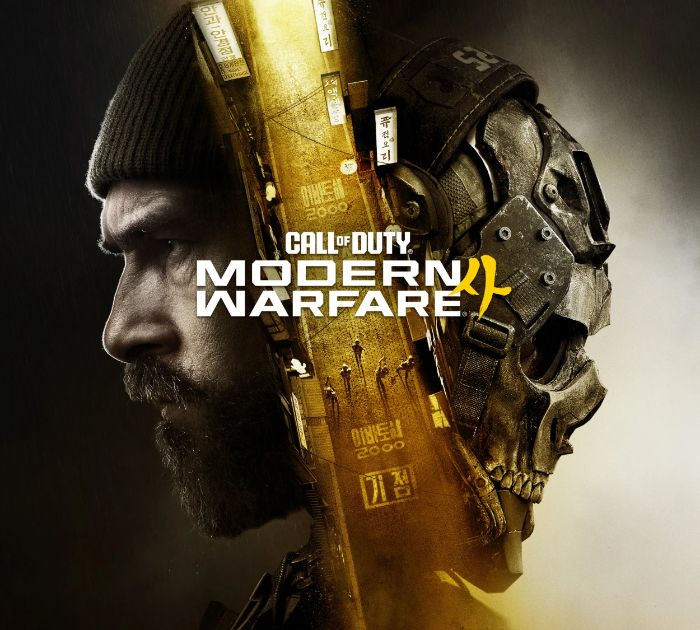
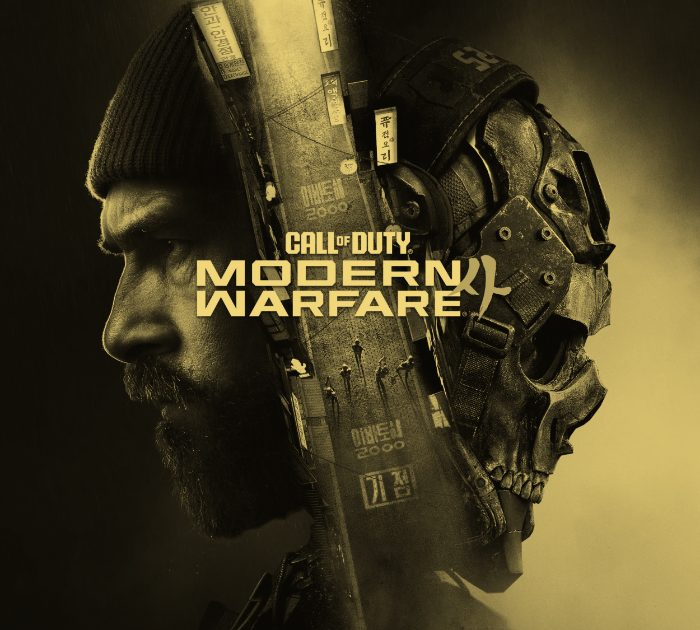
Aperçu des liens : version premium
- visuels en bichromie (or pour MW4, cuivre pour GTA 6), diagonale dorée, cadre fin et coins
- accroche « Entre dans l'arène » en dégradé or, « PLATEFORME GAMING » en sur-titre
- textes de partage réécrits, image versionnée (?v=3)

diff --git a/src/pages/api/og.js b/src/pages/api/og.js
@@ -4,12 +4,15 @@ export const config = { runtime: "edge" };
 
 const GOLD = "#d4af37";
 const GOLD_LIGHT = "#f1d77a";
+const GOLD_PALE = "#f8ecc0";
+const GOLD_DARK = "#9c7c1c";
 const SUNSET = "#ff9a5c";
 
 /**
- * Image d'aperçu des liens (Discord, X, WhatsApp…), 1200 x 630 :
- * visuel MW4 à gauche, GTA 6 à droite, emblème et titre au centre.
- * Paramètre facultatif : ?title=Classement%20MW4 (remplace « Plateforme gaming »).
+ * Image d'aperçu des liens (Discord, X, WhatsApp…), 1200 x 630.
+ * Visuels MW4 (bichromie or) et GTA 6 (bichromie coucher de soleil) séparés par une
+ * diagonale dorée, cadre fin, accroche en dégradé or.
+ * Paramètre facultatif : ?title=Classement (remplace l'accroche « Entre dans l'arène »).
  *
  * Polices du site (Saira Condensed, Inter) chargées depuis Google Fonts au premier appel ;
  * en cas d'échec, l'image est rendue avec la police par défaut.
@@ -25,10 +28,11 @@ async function googleFont(family, weight) {
 
 function loadFonts() {
   if (!fontsPromise) {
-    fontsPromise = Promise.all([googleFont("Saira+Condensed", 900), googleFont("Inter", 600)])
-      .then(([saira, inter]) => [
+    fontsPromise = Promise.all([googleFont("Saira+Condensed", 900), googleFont("Inter", 500), googleFont("Inter", 700)])
+      .then(([saira, inter, interBold]) => [
         { name: "Saira", data: saira, weight: 900, style: "normal" },
-        { name: "Inter", data: inter, weight: 600, style: "normal" },
+        { name: "Inter", data: inter, weight: 500, style: "normal" },
+        { name: "Inter", data: interBold, weight: 700, style: "normal" },
       ])
       .catch(() => {
         fontsPromise = null;
@@ -54,106 +58,132 @@ async function picture(origin, path) {
 function Emblem({ size }) {
   return (
     <svg width={size} height={size} viewBox="0 0 64 64" fill="none">
-      <path d="M32 4 56.25 18v28L32 60 7.75 46V18L32 4Z" stroke={GOLD} strokeWidth="3.2" strokeLinejoin="round" />
-      <path d="M32 10.5 50.6 21.25v21.5L32 53.5 13.4 42.75v-21.5L32 10.5Z" stroke="#9c7c1c" strokeWidth="1" strokeLinejoin="round" />
-      <path d="M15 32c5-7 10.5-10.5 17-10.5S44 25 49 32c-5 7-10.5 10.5-17 10.5S20 39 15 32Z" stroke={GOLD_LIGHT} strokeWidth="2.8" strokeLinejoin="round" />
+      <path d="M32 4 56.25 18v28L32 60 7.75 46V18L32 4Z" stroke={GOLD} strokeWidth="3" strokeLinejoin="round" />
+      <path d="M32 10.5 50.6 21.25v21.5L32 53.5 13.4 42.75v-21.5L32 10.5Z" stroke={GOLD_DARK} strokeWidth="1" strokeLinejoin="round" />
+      <path d="M15 32c5-7 10.5-10.5 17-10.5S44 25 49 32c-5 7-10.5 10.5-17 10.5S20 39 15 32Z" stroke={GOLD_LIGHT} strokeWidth="2.6" strokeLinejoin="round" />
       <circle cx="32" cy="32" r="6.5" stroke={GOLD} strokeWidth="1.6" />
-      <path d="M32 27.5 36.5 32 32 36.5 27.5 32 32 27.5Z" fill="#f8ecc0" />
+      <path d="M32 27.5 36.5 32 32 36.5 27.5 32 32 27.5Z" fill={GOLD_PALE} />
     </svg>
+  );
+}
+
+const box = { position: "absolute", top: 0, left: 0, width: 1200, height: 630, display: "flex" };
+
+/** Coin de cadre « tactique » : deux traits dorés. */
+function Corner({ x, y, flipX, flipY }) {
+  const h = { position: "absolute", width: 44, height: 2, background: GOLD, [flipX ? "right" : "left"]: 0, [flipY ? "bottom" : "top"]: 0 };
+  const v = { position: "absolute", width: 2, height: 44, background: GOLD, [flipX ? "right" : "left"]: 0, [flipY ? "bottom" : "top"]: 0 };
+  return (
+    <div style={{ position: "absolute", left: x, top: y, width: 44, height: 44, display: "flex" }}>
+      <div style={h} />
+      <div style={v} />
+    </div>
   );
 }
 
 export default async function handler(request) {
   const { searchParams, origin } = new URL(request.url);
-  const custom = searchParams.get("title")?.slice(0, 40);
+  const custom = searchParams.get("title")?.slice(0, 32);
   const [fonts, mw4, gta] = await Promise.all([loadFonts(), picture(origin, "/og/og-mw4.jpg"), picture(origin, "/og/og-gta6.jpg")]);
   const display = fonts.length ? "Saira" : "sans-serif";
   const text = fonts.length ? "Inter" : "sans-serif";
 
   return new ImageResponse(
     (
-      <div style={{ width: "100%", height: "100%", display: "flex", position: "relative", background: "#0a0a0a", color: "#fff" }}>
-        {/* Visuels des deux jeux */}
-        {mw4 ? <img src={mw4} width={700} height={630} style={{ position: "absolute", left: -100, top: 0, objectFit: "cover" }} /> : null}
-        {gta ? <img src={gta} width={700} height={630} style={{ position: "absolute", left: 600, top: 0, objectFit: "cover" }} /> : null}
+      <div style={{ width: "100%", height: "100%", display: "flex", position: "relative", background: "#070604", color: "#fff" }}>
+        {/* Visuels en bichromie */}
+        {mw4 ? <img src={mw4} width={700} height={630} style={{ position: "absolute", left: -120, top: 0 }} /> : null}
+        {gta ? <img src={gta} width={700} height={630} style={{ position: "absolute", left: 620, top: 0 }} /> : null}
 
-        {/* Voiles : centre sombre pour le texte, teinte or à gauche, coucher de soleil à droite */}
+        {/* Voiles : centre profond, vignettage, lueurs or (gauche) et coucher de soleil (droite) */}
         <div
           style={{
-            position: "absolute",
-            top: 0,
-            left: 0,
-            width: 1200,
-            height: 630,
-            display: "flex",
+            ...box,
             background:
-              "linear-gradient(90deg, rgba(10,10,10,0.62) 0%, rgba(10,10,10,0.86) 22%, rgba(10,10,10,0.93) 50%, rgba(10,10,10,0.86) 78%, rgba(10,10,10,0.6) 100%)",
+              "linear-gradient(90deg, rgba(7,6,4,0.12) 0%, rgba(7,6,4,0.62) 22%, rgba(7,6,4,0.93) 42%, rgba(7,6,4,0.95) 50%, rgba(7,6,4,0.93) 58%, rgba(7,6,4,0.62) 78%, rgba(7,6,4,0.12) 100%)",
           }}
         />
         <div
           style={{
-            position: "absolute",
-            top: 0,
-            left: 0,
-            width: 1200,
-            height: 630,
-            display: "flex",
+            ...box,
             background:
-              "radial-gradient(ellipse at 0% 100%, rgba(212,175,55,0.35), transparent 45%), radial-gradient(ellipse at 100% 100%, rgba(255,154,92,0.35), transparent 45%), linear-gradient(180deg, rgba(10,10,10,0.6) 0%, transparent 25%, transparent 70%, rgba(10,10,10,0.85) 100%)",
+              "radial-gradient(ellipse 60% 70% at 50% 50%, transparent 55%, rgba(0,0,0,0.35) 100%), radial-gradient(ellipse at 50% 46%, rgba(212,175,55,0.16), transparent 42%), radial-gradient(ellipse at 100% 100%, rgba(255,120,70,0.28), transparent 45%), radial-gradient(ellipse at 0% 100%, rgba(212,175,55,0.22), transparent 45%)",
           }}
         />
 
-        {/* Séparation dorée inclinée entre les deux univers (en haut et en bas, le texte reste lisible) */}
-        <div style={{ position: "absolute", left: 598, top: -40, width: 4, height: 150, background: `linear-gradient(180deg, transparent, ${GOLD})`, transform: "rotate(14deg)" }} />
-        <div style={{ position: "absolute", left: 598, bottom: -40, width: 4, height: 150, background: `linear-gradient(0deg, transparent, ${SUNSET})`, transform: "rotate(14deg)" }} />
+        {/* Diagonale dorée sur toute la hauteur, estompée derrière le texte */}
+        <div
+          style={{
+            position: "absolute",
+            left: 599,
+            top: -60,
+            width: 2,
+            height: 750,
+            transform: "rotate(12deg)",
+            background: `linear-gradient(180deg, ${GOLD} 0%, rgba(212,175,55,0.5) 18%, transparent 34%, transparent 66%, rgba(255,154,92,0.5) 82%, ${SUNSET} 100%)`,
+          }}
+        />
 
-        {/* Contenu */}
+        {/* Cadre fin et coins tactiques */}
+        <div style={{ position: "absolute", left: 28, top: 28, width: 1144, height: 574, border: "1px solid rgba(212,175,55,0.28)", display: "flex" }} />
+        <Corner x={22} y={22} />
+        <Corner x={1134} y={22} flipX />
+        <Corner x={22} y={564} flipY />
+        <Corner x={1134} y={564} flipX flipY />
+
+        {/* Mentions des deux univers, discrètes, en bas des visuels */}
+        <div style={{ position: "absolute", left: 64, bottom: 58, display: "flex", fontFamily: text, fontSize: 15, fontWeight: 700, letterSpacing: 5, color: GOLD_LIGHT, opacity: 0.85 }}>
+          CALL OF DUTY · MW4
+        </div>
+        <div style={{ position: "absolute", right: 64, bottom: 58, display: "flex", fontFamily: text, fontSize: 15, fontWeight: 700, letterSpacing: 5, color: "#ffc2a0", opacity: 0.85 }}>
+          GRAND THEFT AUTO VI
+        </div>
+
+        {/* Contenu central */}
         <div style={{ position: "relative", display: "flex", flexDirection: "column", alignItems: "center", justifyContent: "center", width: "100%", height: "100%" }}>
-          <div style={{ display: "flex", alignItems: "center", gap: 18 }}>
-            <Emblem size={64} />
-            <div style={{ display: "flex", fontFamily: display, fontSize: 52, fontWeight: 900, letterSpacing: 3, textTransform: "uppercase" }}>
-              Six<span style={{ color: GOLD }}>Sence</span>
+          <div style={{ display: "flex", alignItems: "center", gap: 14 }}>
+            <Emblem size={46} />
+            <div style={{ display: "flex", fontFamily: display, fontSize: 34, fontWeight: 900, letterSpacing: 9 }}>
+              SIX<span style={{ color: GOLD }}>SENCE</span>
             </div>
+          </div>
+
+          <div style={{ display: "flex", alignItems: "center", gap: 18, marginTop: 30 }}>
+            <div style={{ width: 70, height: 1, background: `linear-gradient(90deg, transparent, ${GOLD})` }} />
+            <div style={{ display: "flex", fontFamily: text, fontSize: 17, fontWeight: 700, letterSpacing: 8, color: GOLD_LIGHT }}>PLATEFORME GAMING</div>
+            <div style={{ width: 70, height: 1, background: `linear-gradient(90deg, ${GOLD}, transparent)` }} />
           </div>
 
           <div
             style={{
               display: "flex",
-              marginTop: 26,
+              marginTop: 14,
               fontFamily: display,
-              fontSize: custom ? 104 : 132,
+              fontSize: 124,
               fontWeight: 900,
-              lineHeight: 0.9,
+              lineHeight: 1,
+              letterSpacing: 2,
               textTransform: "uppercase",
-              textAlign: "center",
-              letterSpacing: 1,
+              backgroundImage: `linear-gradient(180deg, ${GOLD_PALE} 0%, ${GOLD_LIGHT} 38%, ${GOLD} 62%, ${GOLD_DARK} 100%)`,
+              backgroundClip: "text",
+              color: "transparent",
             }}
           >
-            {custom ? (
-              custom
-            ) : (
-              <>
-                Plateforme&nbsp;<span style={{ color: GOLD_LIGHT }}>gaming</span>
-              </>
-            )}
+            {custom || "Entre dans l'arène"}
           </div>
 
-          <div style={{ display: "flex", gap: 14, marginTop: 34, fontFamily: text, fontSize: 26, fontWeight: 600 }}>
-            <div style={{ display: "flex", padding: "10px 22px", border: `2px solid ${GOLD}`, color: GOLD_LIGHT, background: "rgba(212,175,55,0.12)" }}>
-              Classé MW4 · 5v5
-            </div>
-            <div style={{ display: "flex", padding: "10px 22px", border: `2px solid ${SUNSET}`, color: "#ffc2a0", background: "rgba(255,154,92,0.12)" }}>
-              Événements GTA 6
-            </div>
+          <div style={{ display: "flex", marginTop: 22, fontFamily: text, fontSize: 27, fontWeight: 500, color: "rgba(255,255,255,0.86)", letterSpacing: 0.5 }}>
+            Matchs classés MW4 en 5v5 · Événements GTA 6
           </div>
 
-          <div style={{ display: "flex", marginTop: 30, fontFamily: text, fontSize: 24, fontWeight: 600, color: "rgba(255,255,255,0.7)" }}>
-            Gratuit · Connexion avec Discord · sixsence.fr
+          <div style={{ display: "flex", alignItems: "center", gap: 14, marginTop: 34, fontFamily: text, fontSize: 15, fontWeight: 700, letterSpacing: 5, color: "rgba(255,255,255,0.55)" }}>
+            <span>SAISON 1</span>
+            <span style={{ color: GOLD }}>◆</span>
+            <span>ACCÈS GRATUIT</span>
+            <span style={{ color: GOLD }}>◆</span>
+            <span>CONNEXION DISCORD</span>
           </div>
         </div>
-
-        {/* Ligne de signature en bas */}
-        <div style={{ position: "absolute", left: 0, right: 0, bottom: 0, height: 6, display: "flex", background: `linear-gradient(90deg, #9c7c1c, ${GOLD_LIGHT}, ${GOLD}, ${SUNSET})` }} />
       </div>
     ),
     {

diff --git a/src/pages/_app.js b/src/pages/_app.js
@@ -46,17 +46,17 @@ export default function App({ Component, pageProps }) {
         <meta property="og:site_name" content="SixSence" />
         <meta property="og:locale" content="fr_FR" />
         <meta property="og:type" content="website" />
-        <meta key="og:title" property="og:title" content="SixSence — La plateforme gaming : classé MW4 & événements GTA 6" />
+        <meta key="og:title" property="og:title" content="SixSence · Entre dans l'arène" />
         <meta
           key="og:description"
           property="og:description"
-          content="Matchs classés MW4 en 5v5, classement en direct, saisons et récompenses, événements GTA 6. Gratuit, connexion en un clic avec Discord."
+          content="La plateforme gaming de la communauté : matchs classés MW4 en 5v5, classement en direct, récompenses de saison et événements GTA 6. Accès gratuit avec Discord."
         />
         <meta property="og:url" content={`${SITE_URL}${asPath.split(/[?#]/)[0]}`} />
-        <meta key="og:image" property="og:image" content={`${SITE_URL}/api/og?v=2`} />
+        <meta key="og:image" property="og:image" content={`${SITE_URL}/api/og?v=3`} />
         <meta property="og:image:width" content="1200" />
         <meta property="og:image:height" content="630" />
-        <meta property="og:image:alt" content="SixSence, plateforme gaming : classé MW4 en 5v5 et événements GTA 6" />
+        <meta property="og:image:alt" content="SixSence, plateforme gaming : « Entre dans l'arène ». Matchs classés MW4 en 5v5 et événements GTA 6." />
         <meta name="twitter:card" content="summary_large_image" />
       </Head>
 
